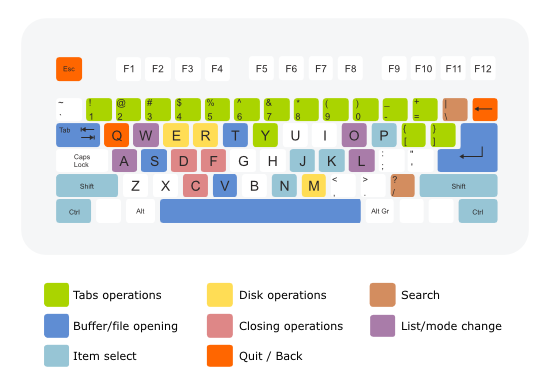
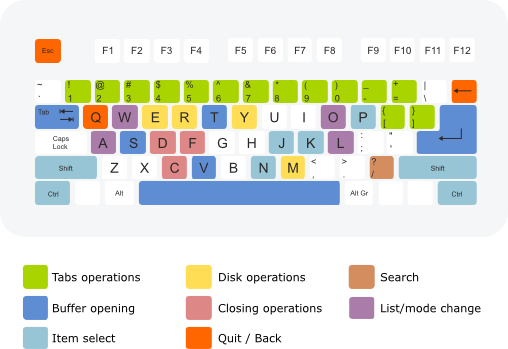
Update graphics

diff --git a/README.md b/README.md
@@ -14,12 +14,6 @@ on demand, capable of displaying various lists: buffer list, file list, tab
 list, or workspace list. Sounds simple, but around that there are some
 additional details making this simple concept a unique approach. 
 
-<p align="center">
-<img alt="Vim-CtrlSpace" 
-src="https://raw.github.com/szw/vim-ctrlspace/next/gfx/plugin_window.png" /><br />
-<em>Pic. Sample plugin window</em>
-</p>
-
 First, the buffer list is limited to buffers related to the current tab. That's
 it, the plugin by default groups buffers by tabs they are used in. In that way
 you get separate sets of buffers per each tab. And that's really useful. Of
@@ -296,76 +290,45 @@ the `.cs_cache` file as serve as a known root later.
 
 ## Usage
 
-### User Interface
-
-
 **Vim-CtrlSpace** contains 4 different lists: _Buffer List_, _File List_,  _Tab
-List_, and _Workspace List_. Some of those have additional modes.
+List_, and _Workspace List_. Some of those have additional modes. In a modal
+editor like Vim this should not fear you ;). I believe this division will seem
+clear to recognize and understand soon.
 
+You can jump between lists easily by pressing one of the following keys:
 
-### Tab Management
+* `o` - jump to _File List_ (aka _Open List_)
+* `l` - jump to _Tab List_
+* `w` - jump to _Workspace List_
 
-Tabs in **Vim-CtrlSpace** (like in Vim) are groups of related buffers. The
-plugin lets you to perform many classic tab actions easily in the Buffer List
-view and of course in the Tab List view (turned on with letter `l`). 
-Those ones include e.g. switching (`[` and `]`), moving (`+` and `-`), 
-closing (uppercase `C`), or renaming (`=`). 
+Since the _Buffer List_ is the default one, in order to jump to it just press
+one of those keys again (or just hit `Backspace`).
 
-You can also create empty tabs (`T`) or copy them (`Y`). The latter action is
-useful if you want to split your tab (your group of buffers) into smaller ones.
-Referring to the demo example, the tab `Users` (holding model files, controller
-files and views) could be split into something like `Users (models)` and 
-`Users (views)`. `Users (models)` could then have model and controller files 
-whereas `Users (views)` could be storing controller and view ones. With the 
-help of tab copying (`Y`) all you need is to copy the `Users` tab, close 
-superfluous buffers in each (lowercase `c`), and finally rename both (`=`). 
-Of course, the split shown in that example might be a bit dummy but in 
-a typical project there are a lot of natural splits, like for example, 
-backend and frontend layers.
-
- 
-### Lists
-
-The plugin have 4 lists, and each of them can have additional modes. In a modal
-editor like Vim this should not fear you ;). I believe this division is clear
-to recognize and understand.
-
-#### Buffer List
+### Buffer List
 
 This is the basic list the plugin offers. Depending of its mode it can collect
-buffers from the current tab or buffers from all tab. 
+buffers from the current tab or buffers from all tabs. 
+
+<p align="center">
+<img alt="Vim-CtrlSpace" 
+src="https://raw.github.com/szw/vim-ctrlspace/next/gfx/plugin_window.png" /><br />
+<em>Sample Buffer List</em>
+</p>
 
 Items listed in the plugin window can have additional indicators 
 (following the item text):
 
-<table>
+| Unicode | ASCII | Indicator                |
+|:-------:|:-----:| ------------------------ |
+| `+`     | `+`   | Item modified            |
+| `★`     | `*`   | Item visible (or active) |
 
-<tr>
-<th>Unicode Symbol</th>
-<th>ASCII Symbol</th>
-<th>Indicator</th>
-</tr>
-
-<tr>
-<td><code>+</code></td>
-<td><code>+</code></td>
-<td>Item modified</td>
-</tr>
-
-<tr>
-<td><code>★</code></td>
-<td><code>&#42;</code></td>
-<td>Item visible (or active)</td>
-</tr>
-
-</table>
-
-##### Simplified Key Diagram
+#### Simplified Key Diagram
 
 This is a simplified diagram of key groups used in **Vim-CtrlSpace** Buffer
 List.
 
-![Key Groups](https://raw.github.com/szw/vim-ctrlspace/master/gfx/cs_keys.png)
+![Key Groups](https://raw.github.com/szw/vim-ctrlspace/next/gfx/cs_keys.png)
 
 *This file is licensed under GNU FDL license. It is derived from
 [Qwerty.svg](http://commons.wikimedia.org/wiki/File:Qwerty.svg) file by [Oona
@@ -373,7 +336,7 @@ Räisänen](http://en.wikipedia.org/wiki/User:Mysid) &copy; 2005. The source of
 the generated graphics you can find
 [here](https://raw.github.com/szw/vim-ctrlspace/master/gfx/cs_keys.svg).*
 
-##### Single Tab Mode
+#### Single Tab Mode
 
 <table>
 <thead>
@@ -753,6 +716,26 @@ original content is marked with an empty star too:
 </tr>
 </tbody>
 </table>
+
+### Tab Management
+
+Tabs in **Vim-CtrlSpace** (like in Vim) are groups of related buffers. The
+plugin lets you to perform many classic tab actions easily in the Buffer List
+view and of course in the Tab List view (turned on with letter `l`). 
+Those ones include e.g. switching (`[` and `]`), moving (`+` and `-`), 
+closing (uppercase `C`), or renaming (`=`). 
+
+You can also create empty tabs (`T`) or copy them (`Y`). The latter action is
+useful if you want to split your tab (your group of buffers) into smaller ones.
+Referring to the demo example, the tab `Users` (holding model files, controller
+files and views) could be split into something like `Users (models)` and 
+`Users (views)`. `Users (models)` could then have model and controller files 
+whereas `Users (views)` could be storing controller and view ones. With the 
+help of tab copying (`Y`) all you need is to copy the `Users` tab, close 
+superfluous buffers in each (lowercase `c`), and finally rename both (`=`). 
+Of course, the split shown in that example might be a bit dummy but in 
+a typical project there are a lot of natural splits, like for example, 
+backend and frontend layers.
 
 #### File List
 
